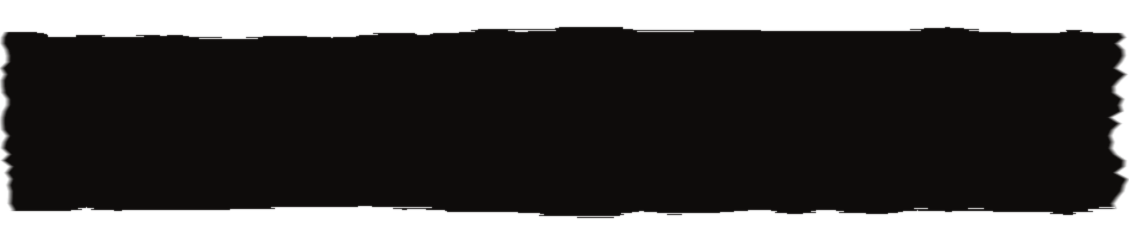
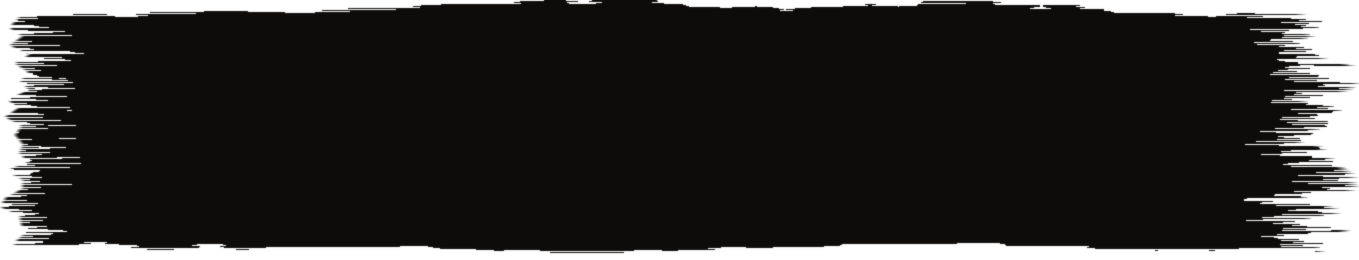
Schreibschrift nach Zusammenspiel: hoeherer Strich, trockene Enden, schraeg

Changed region(s): [[0.0, 0.0, 1.0, 0.9917]]

diff --git a/stil.css b/stil.css
@@ -21,7 +21,7 @@
    Satzzeichen aus einem zweiten Blatt im selben Stil; nachgezeichnet,
    mit fontTools gebaut.
    Gehoert Klartext Digital, liegt darum auf dem eigenen Server. */
-@font-face{font-family:'Klartext Hand';src:url(fonts/klartext-hand-5.woff2) format('woff2');
+@font-face{font-family:'Klartext Hand';src:url(fonts/klartext-hand-6.woff2) format('woff2');
   font-weight:400 900;font-display:swap}
 
 :root{
@@ -4786,7 +4786,7 @@ p.brush{font-size:clamp(38px,4.2vw,68px)}
 h1 .brush,h2 .brush,h1 .wort,h2 .wort{font-size:1.45em;font-weight:700;
   display:inline-block;line-height:.66;letter-spacing:0;padding:.04em .55em .02em .32em;
   margin:0 .02em;vertical-align:-.02em}
-.buehne h1 .wort{font-size:.88em;padding-right:.36em;margin-right:-.06em}
+.buehne h1 .wort{font-size:.84em;padding-right:.36em;margin-right:-.06em}
 /* Die Bühne hat zwei feste Zeilen (nowrap). Mit Strich darf die zweite
    Zeile nicht breiter werden als die erste, sonst ragt sie ab 1280 px
    aus der Spalte. */
@@ -4860,3 +4860,11 @@ p.brush,.referenzen .brush,.weiter .brush{line-height:.66;padding-top:.04em;padd
    (gemessen: Seite +16 px, Folgen +14 px Einzug der Links). */
 .fuss__spalte:nth-child(1) .fuss__kopf{margin-left:calc(-.32em + 16px)}
 .fuss__spalte:nth-child(3) .fuss__kopf{margin-left:calc(-.32em + 14px)}
+/* Massstab "Zusammenspiel." (Dusan, 23.10.2026): hoeherer Strich mit
+   trockenen, ausgefransten Enden, das Ganze leicht schraeg gestellt; die
+   Schrift duenner und geneigter (klartext-hand-6). Gilt ueberall. */
+.brush,.wort{line-height:1;transform:rotate(-1.6deg);transform-origin:left center}
+p.brush,.referenzen .brush,.weiter .brush{line-height:1;padding-top:.02em;padding-bottom:.02em}
+h1 .brush,h2 .brush,h1 .wort,h2 .wort{line-height:.96;padding-top:.02em;padding-bottom:.02em}
+.fuss .fuss__kopf{line-height:1;transform:rotate(-1.6deg);transform-origin:left center}
+.paket__preis .brush,.blog__hand .brush,.brief__hand .brush{transform:none}

diff --git a/scripts/build.py b/scripts/build.py
@@ -423,7 +423,7 @@ for source,route in ROUTES.items():
   token=CONFIG.get('verification',{}).get(key)
   if token:head+=f'<meta name="{name}" content="{escape(token,quote=True)}">\n'
  head+=f'<link rel="preload" href="{prefix}fonts/figtree-latin.woff2" as="font" type="font/woff2" crossorigin>\n'
- head+=f'<link rel="preload" href="{prefix}fonts/klartext-hand-5.woff2" as="font" type="font/woff2" crossorigin>\n'
+ head+=f'<link rel="preload" href="{prefix}fonts/klartext-hand-6.woff2" as="font" type="font/woff2" crossorigin>\n'
  s=s.replace('</head>',head+'</head>')
  dest=OUT/(route if route.endswith('.html') else route+'index.html');dest.parent.mkdir(parents=True,exist_ok=True);dest.write_text(s)
 
